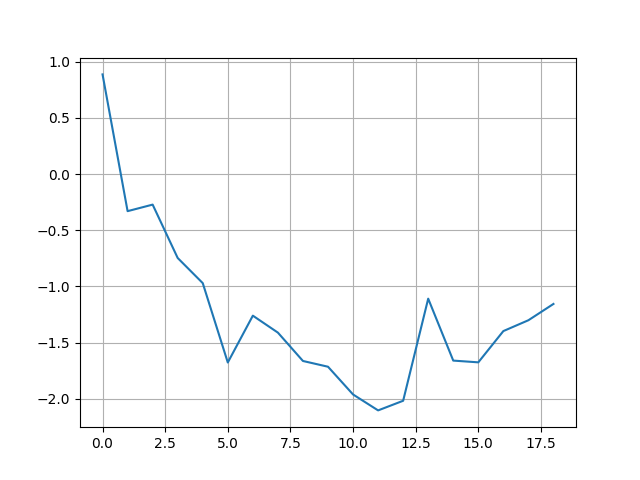
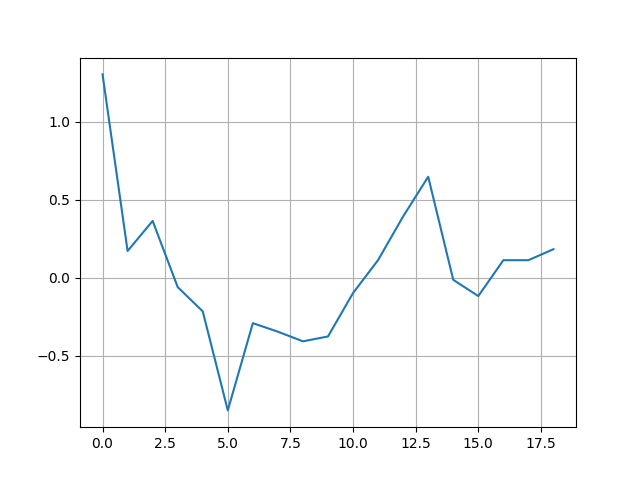
Backup

diff --git a/src/inversion.py b/src/inversion.py
@@ -66,7 +66,7 @@ def __retrieve_step(lm_param, loop_count):#, chi2, residuum):
     if loop_count == 0 or chi2 <= aux.CHI2[-1]:
         aux.CHI2.append(chi2)
         aux.RESIDUUM.append(residuum)
-        #ALPHA = 1.0
+        ALPHA = 1.0
         if lm_param > inp.LM_MIN:# or conv_test < 1.0:
             lm_param = lm_param / 10.0
     elif chi2 > aux.CHI2[-1]:
@@ -80,7 +80,7 @@ def __retrieve_step(lm_param, loop_count):#, chi2, residuum):
         aux.RADIUS_LIQUID[-1] = np.float_(aux.RADIUS_LIQUID[-2])
         aux.RADIUS_ICE[-1] = np.float_(aux.RADIUS_ICE[-2])
         aux.T_MATRIX[-1] = aux.T_MATRIX[-2]
-        #ALPHA = ALPHA / 2.0
+        ALPHA = ALPHA / 2.0
 
         
     '''
@@ -109,12 +109,12 @@ def __retrieve_step(lm_param, loop_count):#, chi2, residuum):
     '''
     while this_tt < 0.0 or this_fi < 0.0 or this_fi > 1.0 or this_rl < 1.0 or \
         this_ri < 1.0:
-            lm_param = lm_param * 20.0
-            delta = numerical.iteration(residuum, lm_param, aux.T_MATRIX[-1])
-            s_n = delta[0]
-            t_matrix_new = delta[1]
-            cov_matrix = delta[2]
-            #ALPHA /= 2.0
+            #lm_param = lm_param * 20.0
+            #delta = numerical.iteration(residuum, lm_param, aux.T_MATRIX[-1])
+            #s_n = delta[0]
+            #t_matrix_new = delta[1]
+            #cov_matrix = delta[2]
+            ALPHA /= 2.0
             this_tt = np.float_(aux.TOTAL_OPTICAL_DEPTH[-1] + ALPHA*s_n[0])
             this_fi = np.float_(aux.ICE_FRACTION[-1] + ALPHA*s_n[1])
             this_rl = np.float_(aux.RADIUS_LIQUID[-1] + ALPHA*s_n[2])
@@ -233,7 +233,7 @@ def __convergence(lm_param, loop_count, conv_test):
         
     global ALPHA
     if loop_count != 0 or aux.MAX_ITER == 1:     
-        condition = conv_test < inp.CONVERGENCE and ALPHA == 1.0
+        condition = conv_test < inp.CONVERGENCE and ALPHA == 1.0 and lm_param <= 0.001
         log.write("{} < {}? {} {}\n".format(conv_test, inp.CONVERGENCE, conv_test < inp.CONVERGENCE, condition))                       
 
         if loop_count != 0 and condition or loop_count == aux.MAX_ITER-1:

diff --git a/src/inp.py b/src/inp.py
@@ -76,7 +76,7 @@ Initial parameter mu for the Levenberg-Marquardt-Algorithm. The inversion follow
 The matrix D is D = np.diag(JT_W_J) * np.identity(len(MCP)
 If LM_INIT equals 0.0, then the iteration changes over to Gauss-Newton
 '''
-LM_INIT = 0.01#1e2
+LM_INIT = 0.0#1e2
 
 '''
 Minimum value for mu. The parameter won't go below this value.
@@ -137,7 +137,7 @@ OFFSET = 0.0
 '''
 Parameters for the first guess: tau_total, f_ice, reff_liq, reff_ice
 '''
-MCP = [0.1, 0.5, 5.0, 30.0]
+MCP = [1.4, 0.88,15.0, 30.0]
 
 '''
 If this is set to true, then L-IWP searches for a file containing cloud height
